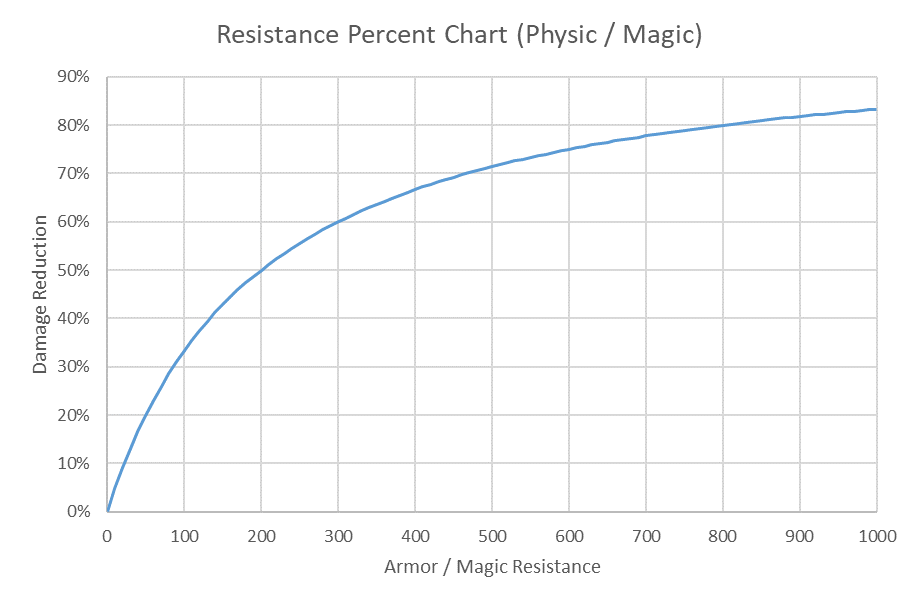
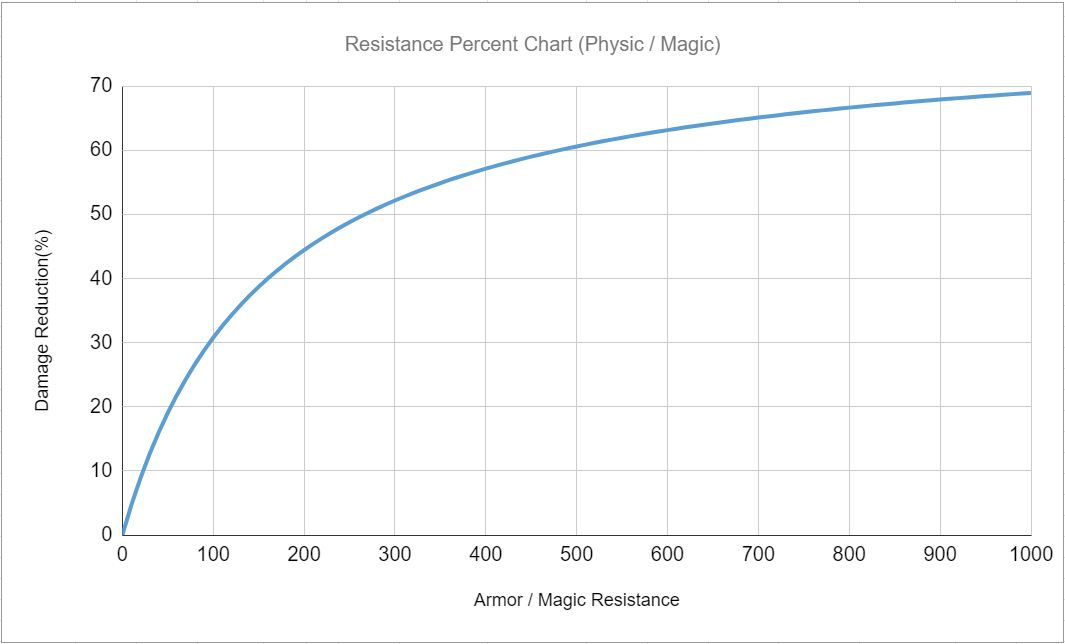
GITBOOK-147: change request with no subject merged in GitBook

diff --git a/guides/buildings.md b/guides/buildings.md
@@ -15,17 +15,7 @@ Resource buildings also have a capacity. You have to collect their resources bef
 
 Level 0 is free for all. Everyone has a free CLEG Mine with 25 CLEG Production Per day. Capacity: 25 CLEG.
 
-| Level | Upgrade Time | Cost        | Production \* | 1 HP Repair\*\* | Capacity \* |
-| ----- | ------------ | ----------- | ------------- | --------------- | ----------- |
-| 0     | 0 hours      | Free        | 25            | 0               | 25          |
-| 1     | 6 hours      | 1,000 CLEG  | 50 CLEG       | 5 CLEG          | 50 CLEG     |
-| 2     | 12 hours     | 1,000 CLEG  | 95 CLEG       | 10 CLEG         | 100 CLEG    |
-| 3     | 24 hours     | 2,000 CLEG  | 181 CLEG      | 20 CLEG         | 200 CLEG    |
-| 4     | 36 hours     | 4,000 CLEG  | 343 CLEG      | 40 CLEG         | 400 CLEG    |
-| 5     | 48 hours     | 8,000 CLEG  | 652 CLEG      | 80 CLEG         | 800 CLEG    |
-| 6     | 60 hours     | 16,000 CLEG | 1,238 CLEG    | 160 CLEG        | 1600 CLEG   |
-| 7     | 72 hours     | 32,000 CLEG | 2,352 CLEG    | 320 CLEG        | 3200 CLEG   |
-| 8     | 84 hours     | 64,000 CLEG | 4,469 CLEG    | 640 CLEG        | 6400 CLEG   |
+<table><thead><tr><th width="90">Level</th><th width="142">Upgrade Time</th><th width="135">Cost</th><th width="129">Production *</th><th width="110">1 HP Repair**</th><th>Capacity *</th></tr></thead><tbody><tr><td>0</td><td>0 hours</td><td>Free</td><td>25</td><td>0</td><td>25</td></tr><tr><td>1</td><td>6 hours</td><td>1,000 CLEG</td><td>50 CLEG</td><td>5 CLEG</td><td>50 CLEG</td></tr><tr><td>2</td><td>12 hours</td><td>1,000 CLEG</td><td>95 CLEG</td><td>10 CLEG</td><td>100 CLEG</td></tr><tr><td>3</td><td>24 hours</td><td>2,000 CLEG</td><td>181 CLEG</td><td>20 CLEG</td><td>200 CLEG</td></tr><tr><td>4</td><td>36 hours</td><td>4,000 CLEG</td><td>343 CLEG</td><td>40 CLEG</td><td>400 CLEG</td></tr><tr><td>5</td><td>48 hours</td><td>8,000 CLEG</td><td>652 CLEG</td><td>80 CLEG</td><td>800 CLEG</td></tr><tr><td>6</td><td>60 hours</td><td>16,000 CLEG</td><td>1,238 CLEG</td><td>160 CLEG</td><td>1600 CLEG</td></tr><tr><td>7</td><td>72 hours</td><td>32,000 CLEG</td><td>2,352 CLEG</td><td>320 CLEG</td><td>3200 CLEG</td></tr><tr><td>8</td><td>84 hours</td><td>64,000 CLEG</td><td>4,469 CLEG</td><td>640 CLEG</td><td>6400 CLEG</td></tr></tbody></table>
 
 {% hint style="warning" %}
 \* Production per day and Capacity numbers are related to cycle 1. In the next cycles, the production will be reduced. Read more about [Mining Cycles](../price-stability.md#mining-cycles).
@@ -39,16 +29,7 @@ Level 0 is free for all. Everyone has a free CLEG Mine with 25 CLEG Production P
 
 ![](../.gitbook/assets/CLEG-stone-mine.webp)
 
-| Level | Upgrade Time | Cost                              | Production \* | Capacity \* |
-| ----- | ------------ | --------------------------------- | ------------- | ----------- |
-| 1     | 12 hours     | 400 CLEG                          | 100 Stone     | 100 Stone   |
-| 2     | 24 hours     | <p>400 CLEG,<br>400 Stone</p>     | 190 Stone     | 200 Stone   |
-| 3     | 36 hours     | <p>800 CLEG,<br>800 Stone</p>     | 361 Stone     | 400 Stone   |
-| 4     | 48 hours     | <p>1600 CLEG,<br>1600 Stone</p>   | 686 Stone     | 800 Stone   |
-| 5     | 60 hours     | <p>3200 CLEG,<br>3200 Stone</p>   | 1303 Stone    | 1600 Stone  |
-| 6     | 72 hours     | <p>6400 CLEG,<br>6400 Stone</p>   | 2476 Stone    | 3200 Stone  |
-| 7     | 84 hours     | <p>12800 CLEG,<br>12800 Stone</p> | 4705 Stone    | 6400 Stone  |
-| 8     | 96 hours     | <p>25600 CLEG,<br>25600 Stone</p> | 8939 Stone    | 12800 Stone |
+<table><thead><tr><th width="88">Level</th><th width="146">Upgrade Time</th><th>Cost</th><th>Production *</th><th>Capacity *</th></tr></thead><tbody><tr><td>1</td><td>12 hours</td><td>400 CLEG</td><td>100 Stone</td><td>100 Stone</td></tr><tr><td>2</td><td>24 hours</td><td>400 CLEG,<br>400 Stone</td><td>190 Stone</td><td>200 Stone</td></tr><tr><td>3</td><td>36 hours</td><td>800 CLEG,<br>800 Stone</td><td>361 Stone</td><td>400 Stone</td></tr><tr><td>4</td><td>48 hours</td><td>1600 CLEG,<br>1600 Stone</td><td>686 Stone</td><td>800 Stone</td></tr><tr><td>5</td><td>60 hours</td><td>3200 CLEG,<br>3200 Stone</td><td>1303 Stone</td><td>1600 Stone</td></tr><tr><td>6</td><td>72 hours</td><td>6400 CLEG,<br>6400 Stone</td><td>2476 Stone</td><td>3200 Stone</td></tr><tr><td>7</td><td>84 hours</td><td>12800 CLEG,<br>12800 Stone</td><td>4705 Stone</td><td>6400 Stone</td></tr><tr><td>8</td><td>96 hours</td><td>25600 CLEG,<br>25600 Stone</td><td>8939 Stone</td><td>12800 Stone</td></tr></tbody></table>
 
 {% hint style="warning" %}
 \* Production per day and Capacity numbers are related to cycle 1. In the next cycles, the production will be reduced. Read more about [Mining Cycles](../price-stability.md#mining-cycles).
@@ -58,16 +39,7 @@ Level 0 is free for all. Everyone has a free CLEG Mine with 25 CLEG Production P
 
 ![](../.gitbook/assets/CLEG-iron-mine.webp)
 
-| Level | Upgrade Time | Cost                                             | Production \* | Capacity \* |
-| ----- | ------------ | ------------------------------------------------ | ------------- | ----------- |
-| 1     | 12 hours     | <p>500 CLEG,</p><p>500 Stone</p>                 | 100 Iron      | 100 Iron    |
-| 2     | 24 hours     | <p>500 CLEG,</p><p>500 Stone,<br>500 Iron</p>    | 190 Iron      | 200 Iron    |
-| 3     | 36 hours     | <p>1000 CLEG,<br>1000 Stone,<br>1000 Iron</p>    | 361 Iron      | 400 Iron    |
-| 4     | 48 hours     | <p>2000 CLEG,<br>2000 Stone,<br>2000 Iron</p>    | 686 Iron      | 800 Iron    |
-| 5     | 60 hours     | <p>4000 CLEG,<br>4000 Stone,<br>4000 Iron</p>    | 1303 Iron     | 1600 Iron   |
-| 6     | 72 hours     | <p>8000 CLEG,<br>8000 Stone,<br>8000 Iron</p>    | 2476 Iron     | 3200 Iron   |
-| 7     | 84 hours     | <p>16000 CLEG,<br>16000 Stone,<br>16000 Iron</p> | 4705 Iron     | 6400 Iron   |
-| 8     | 96 hours     | <p>32000 CLEG,<br>32000 Stone,<br>32000 Iron</p> | 8939 Iron     | 12800 Iron  |
+<table><thead><tr><th width="99">Level</th><th width="150">Upgrade Time</th><th>Cost</th><th>Production *</th><th>Capacity *</th></tr></thead><tbody><tr><td>1</td><td>12 hours</td><td><p>500 CLEG,</p><p>500 Stone</p></td><td>100 Iron</td><td>100 Iron</td></tr><tr><td>2</td><td>24 hours</td><td><p>500 CLEG,</p><p>500 Stone,<br>500 Iron</p></td><td>190 Iron</td><td>200 Iron</td></tr><tr><td>3</td><td>36 hours</td><td>1000 CLEG,<br>1000 Stone,<br>1000 Iron</td><td>361 Iron</td><td>400 Iron</td></tr><tr><td>4</td><td>48 hours</td><td>2000 CLEG,<br>2000 Stone,<br>2000 Iron</td><td>686 Iron</td><td>800 Iron</td></tr><tr><td>5</td><td>60 hours</td><td>4000 CLEG,<br>4000 Stone,<br>4000 Iron</td><td>1303 Iron</td><td>1600 Iron</td></tr><tr><td>6</td><td>72 hours</td><td>8000 CLEG,<br>8000 Stone,<br>8000 Iron</td><td>2476 Iron</td><td>3200 Iron</td></tr><tr><td>7</td><td>84 hours</td><td>16000 CLEG,<br>16000 Stone,<br>16000 Iron</td><td>4705 Iron</td><td>6400 Iron</td></tr><tr><td>8</td><td>96 hours</td><td>32000 CLEG,<br>32000 Stone,<br>32000 Iron</td><td>8939 Iron</td><td>12800 Iron</td></tr></tbody></table>
 
 {% hint style="warning" %}
 \* Production per day and Capacity numbers are related to cycle 1. In the next cycles, the production will be reduced. Read more about [Mining Cycles](../price-stability.md#mining-cycles).
@@ -81,16 +53,7 @@ By upgrading barracks, Capacity will increase by 2 per level. And Armor, Damage,
 
 ![Barracks](../.gitbook/assets/CLEG-Barracks.webp)
 
-| Level | Upgrade Time | Cost                                             | Healing/Day \* | Capacity | Bonus Stats \*\* |
-| ----- | ------------ | ------------------------------------------------ | -------------- | -------- | ---------------- |
-| 1     | 12 hours     | <p>1000 CLEG,<br>1000 Stone,<br>1000 Iron</p>    | 240 HP         | 5 Units  | 0%               |
-| 2     | 24 hours     | <p>1000 CLEG,<br>1000 Stone,<br>1000 Iron</p>    | 480 HP         | 7 Units  | 5%               |
-| 3     | 36 hours     | <p>2000 CLEG,<br>2000 Stone,<br>2000 Iron</p>    | 960 HP         | 9 Units  | 10%              |
-| 4     | 48 hours     | <p>4000 CLEG,<br>4000 Stone,<br>4000 Iron</p>    | 1920 HP        | 11 Units | 20%              |
-| 5     | 60 hours     | <p>8000 CLEG,<br>8000 Stone,<br>8000 Iron</p>    | 3840 HP        | 13 Units | 40%              |
-| 6     | 72 hours     | <p>16000 CLEG,<br>16000 Stone,<br>16000 Iron</p> | 7680 HP        | 15 Units | 80%              |
-| 7     | 84 hours     | <p>32000 CLEG,<br>32000 Stone,<br>32000 Iron</p> | 15360 HP       | 17 Units | 160%             |
-| 8     | 96 hours     | <p>64000 CLEG,<br>64000 Stone,<br>64000 Iron</p> | 30720 HP       | 19 Units | 320%             |
+<table><thead><tr><th width="88">Level</th><th>Upgrade Time</th><th width="142">Cost</th><th width="135">Healing/Day *</th><th>Capacity</th><th>Bonus Stats **</th></tr></thead><tbody><tr><td>1</td><td>12 hours</td><td>1000 CLEG,<br>1000 Stone,<br>1000 Iron</td><td>240 HP</td><td>5 Units</td><td>0%</td></tr><tr><td>2</td><td>24 hours</td><td>1000 CLEG,<br>1000 Stone,<br>1000 Iron</td><td>480 HP</td><td>7 Units</td><td>5%</td></tr><tr><td>3</td><td>36 hours</td><td>2000 CLEG,<br>2000 Stone,<br>2000 Iron</td><td>960 HP</td><td>9 Units</td><td>10%</td></tr><tr><td>4</td><td>48 hours</td><td>4000 CLEG,<br>4000 Stone,<br>4000 Iron</td><td>1920 HP</td><td>11 Units</td><td>20%</td></tr><tr><td>5</td><td>60 hours</td><td>8000 CLEG,<br>8000 Stone,<br>8000 Iron</td><td>3840 HP</td><td>13 Units</td><td>40%</td></tr><tr><td>6</td><td>72 hours</td><td>16000 CLEG,<br>16000 Stone,<br>16000 Iron</td><td>7680 HP</td><td>15 Units</td><td>80%</td></tr><tr><td>7</td><td>84 hours</td><td>32000 CLEG,<br>32000 Stone,<br>32000 Iron</td><td>15360 HP</td><td>17 Units</td><td>160%</td></tr><tr><td>8</td><td>96 hours</td><td>64000 CLEG,<br>64000 Stone,<br>64000 Iron</td><td>30720 HP</td><td>19 Units</td><td>320%</td></tr></tbody></table>
 
 {% hint style="info" %}
 \* Healing/Day: When units are injured in battles, their HP will recover in Barracks equal to Healing/Day divided by injured soldiers per day. For Example, If Barrack's Healing/Day is 240 and there are 10 injured units, each unit will receive 24 HP per day.

diff --git a/guides/heroes.md b/guides/heroes.md
@@ -43,16 +43,7 @@ In [Barracks](buildings.md#barracks), you can train units. Some of the units are
 
 ### Base Stats
 
-| Name     | Damage                                                         | Defence                                                                      | Resources                         |
-| -------- | -------------------------------------------------------------- | ---------------------------------------------------------------------------- | --------------------------------- |
-| Warrior  | <p>50 Physical Damage<br>Attack Range: 1</p>                   | <p>Armor: 100<br>HP: 200<br>Magic Resistance: 20</p>                         | CLEG: 100, Iron: 30               |
-| Archer   | <p>40 Physical Damage<br>Attack Range: 2</p>                   | <p>Armor: 30<br>HP: 120<br>Magic Resistance: 20</p>                          | CLEG: 100, Iron: 20               |
-| Guardian | <p>40 Physical Damage<br>Attack Range: 1</p>                   | <p>Armor: 200<br>HP:300<br>Magic Resistance: 20<br>+30 team armor</p>        | CLEG: 150, Iron: 100              |
-| Knight   | <p>100 Physical Damage<br>Attack Range: 1</p>                  | <p>Armor: 150<br>HP: 400<br>Magic Resistance: 20</p>                         | CLEG: 300, Iron: 100              |
-| Mage     | <p>50 Magical Damage<br>Attack Range: 3,<br>17 Healing*** </p> | <p>Armor: 20<br>HP: 100<br>Magic Resistance: 20<br>+30 team Magic Resist</p> | CLEG: 160, Iron 25                |
-| Catapult | <p>150 AOE** Physical Damage<br>Range: 4</p>                   | <p>Armor: 300<br>HP: 500<br>Magic Resistance: 20</p>                         | CLEG: 1000, Iron: 400, Stone: 500 |
-| Dragon   | <p>100 AOE Magical Damage<br>Range: 2</p>                      | <p>Armor: 200<br>HP: 500<br>Magic Resistance: 20</p>                         | 1% Drops in dungeons              |
-| Goblin   | <p>20 Physical Damage<br>Range: 1</p>                          | <p>Armor: 50<br>HP: 200<br>Magic Resistance: 20</p>                          | 10% Drops in dungeons             |
+<table><thead><tr><th width="119.34587254356853">Name</th><th width="196.45229776221768">Damage</th><th width="231.0297488249819">Defence</th><th>Resources</th></tr></thead><tbody><tr><td>Warrior</td><td>50 Physical Damage<br>Attack Range: 1</td><td>Armor: 100<br>HP: 200<br>Magic Resistance: 20</td><td>CLEG: 100, Iron: 30</td></tr><tr><td>Archer</td><td>40 Physical Damage<br>Attack Range: 2</td><td>Armor: 30<br>HP: 120<br>Magic Resistance: 20</td><td>CLEG: 100, Iron: 20</td></tr><tr><td>Guardian</td><td>40 Physical Damage<br>Attack Range: 1</td><td>Armor: 200<br>HP:300<br>Magic Resistance: 20<br>+30 team armor</td><td>CLEG: 150, Iron: 100</td></tr><tr><td>Knight</td><td>100 Physical Damage<br>Attack Range: 1</td><td>Armor: 150<br>HP: 400<br>Magic Resistance: 20</td><td>CLEG: 300, Iron: 100</td></tr><tr><td>Mage</td><td>50 Magical Damage<br>Attack Range: 3,<br>17 Healing*** </td><td>Armor: 20<br>HP: 100<br>Magic Resistance: 20<br>+30 team Magic Resist</td><td>CLEG: 160, Iron 25</td></tr><tr><td>Catapult</td><td>150 AOE** Physical Damage<br>Range: 4</td><td>Armor: 300<br>HP: 500<br>Magic Resistance: 20</td><td>CLEG: 1000, Iron: 400, Stone: 500</td></tr><tr><td>Dragon</td><td>100 AOE Magical Damage<br>Range: 2</td><td>Armor: 200<br>HP: 500<br>Magic Resistance: 20</td><td>1% Drops in dungeons</td></tr><tr><td>Goblin</td><td>20 Physical Damage<br>Range: 1</td><td>Armor: 50<br>HP: 200<br>Magic Resistance: 20</td><td>10% Drops in dungeons</td></tr></tbody></table>
 
 \*\* AOE (Area of effect): Deals damage to units within 1 range distance of the target unit.
 
@@ -62,18 +53,7 @@ In [Barracks](buildings.md#barracks), you can train units. Some of the units are
 
 Units earn experience (XP) in battles. When they get enough XP, they will upgrade to the next Level. by upgrading to new levels, units' HP, Attack Damage, and Healing will increase by 50%. For ranged units, they will get 1 more attack range every 3 levels. For example, the table below shows the stats of Archer at each Level.
 
-| Level | XP required | Attack | HP      | Attack Range |
-| ----- | ----------- | ------ | ------- | ------------ |
-| 1     | -           | 30     | 120 HP  | 2            |
-| 2     | 100         | 45     | 180 HP  | 2            |
-| 3     | 150         | 68     | 270 HP  | 2            |
-| 4     | 225         | 101    | 405 HP  | 3            |
-| 5     | 338         | 152    | 608 HP  | 3            |
-| 6     | 506         | 228    | 911 HP  | 3            |
-| 7     | 759         | 342    | 1367 HP | 4            |
-| 8     | 1139        | 513    | 2050 HP | 4            |
-| 9     | 1709        | 769    | 3075 HP | 4            |
-| 10    | 2563        | 1153   | 4613 HP | 5            |
+<table><thead><tr><th width="110">Level</th><th width="127">XP required</th><th width="121">Attack</th><th width="135">HP</th><th width="137">Attack Range</th></tr></thead><tbody><tr><td>1</td><td>-  </td><td>30</td><td>120 HP</td><td>2</td></tr><tr><td>2</td><td>100</td><td>45</td><td>180 HP</td><td>2</td></tr><tr><td>3</td><td>150</td><td>68</td><td>270 HP</td><td>2</td></tr><tr><td>4</td><td>225</td><td>101</td><td>405 HP</td><td>3</td></tr><tr><td>5</td><td>338</td><td>152</td><td>608 HP</td><td>3</td></tr><tr><td>6</td><td>506</td><td>228</td><td>911 HP</td><td>3</td></tr><tr><td>7</td><td>759</td><td>342</td><td>1367 HP</td><td>4</td></tr><tr><td>8</td><td>1139</td><td>513</td><td>2050 HP</td><td>4</td></tr><tr><td>9</td><td>1709</td><td>769</td><td>3075 HP</td><td>4</td></tr><tr><td>10</td><td>2563</td><td>1153</td><td>4613 HP</td><td>5</td></tr></tbody></table>
 
 Each troop earns 10 XP if they win the battle, but if they lose the battle, troops will earn 5 XP. Required XP for level up to level 2 is 100 and for next levels is previous level required XP + 50%. For example: Troop level 1 requires 100 XP to level up, and troop level 2 needs 150 XP to reach to the next level.
 

diff --git a/tokenomics.md b/tokenomics.md
@@ -8,16 +8,7 @@ IDO Price: 0.008$
 
 ![](.gitbook/assets/tokenomics.png)
 
-|                                               | Total Supply | Percent | Vesting   |
-| --------------------------------------------- | :----------: | :-----: | --------- |
-| **Play to Earn \***                           |     600M     |   60%   | 40 Months |
-| **IDO**                                       |     100M     |   10%   |           |
-| **Team**                                      |      80M     |    8%   | 36 Months |
-| **CEX Listing**                               |      50M     |    5%   |           |
-| **Marketing**                                 |      50M     |    5%   | 36 Months |
-| **DEX Liquidity**                             |      50M     |    5%   |           |
-| **Community** (Airdrops / Rewards / Referral) |      40M     |    4%   | 24 Month  |
-| **Development**                               |      30M     |    3%   | 18 Months |
+<table><thead><tr><th width="232.52851390579642"> </th><th width="152.43835616438355" align="center">Total Supply</th><th width="150" align="center">Percent</th><th>Vesting</th></tr></thead><tbody><tr><td><strong>Play to Earn *</strong> </td><td align="center">600M</td><td align="center">60%</td><td>40 Months</td></tr><tr><td><strong>IDO</strong></td><td align="center">100M</td><td align="center">10%</td><td></td></tr><tr><td><strong>Team</strong></td><td align="center">80M</td><td align="center">8%</td><td>36 Months</td></tr><tr><td><strong>CEX Listing</strong></td><td align="center">50M</td><td align="center">5%</td><td></td></tr><tr><td><strong>Marketing</strong></td><td align="center">50M</td><td align="center">5%</td><td>36 Months</td></tr><tr><td><strong>DEX Liquidity</strong></td><td align="center">50M</td><td align="center">5%</td><td></td></tr><tr><td><strong>Community</strong> (Airdrops / Rewards / Referral)</td><td align="center">40M</td><td align="center">4%</td><td>24 Month</td></tr><tr><td><strong>Development</strong></td><td align="center">30M</td><td align="center">3%</td><td>18 Months</td></tr></tbody></table>
 
 Vesting tokens locked [unicrypt.network](https://app.unicrypt.network/amm/pancake-v2/token/0x4027d91eCD3140e53AE743d657549adfeEbB27AB) platform and vesting over time based on the vesting plan. You can see more details in the [Chain of Legends Token Vesting Google Sheet](https://docs.google.com/spreadsheets/d/1Z-Gc0C3G\_frqcQPOv7BdwGo-QaTbgm2UpO9uVBXfHR8/edit?usp=sharing).\
 \

diff --git a/guides/battles.md b/guides/battles.md
@@ -13,7 +13,7 @@ Priorities:
 * Lowest HP
 * Highest Damage
 
-<figure><img src="../.gitbook/assets/image (7).png" alt=""><figcaption></figcaption></figure>
+<figure><img src="../.gitbook/assets/image (7) (2).png" alt=""><figcaption></figcaption></figure>
 
 Units lose HP in battles and it takes time (depending on the level of [Barracks](broken-reference)) to recover their HP.
 
@@ -21,16 +21,16 @@ Units lose HP in battles and it takes time (depending on the level of [Barracks]
 
 Armor and Magic Resistance help units to get damaged less in battles.
 
-<figure><img src="../.gitbook/assets/image (5).png" alt=""><figcaption><p>How armor and magic resistance mitigate incoming magical or physical damage</p></figcaption></figure>
+<figure><img src="../.gitbook/assets/image (3).png" alt=""><figcaption><p>How armor and magic resistance mitigate incoming magical or physical damage</p></figcaption></figure>
 
 Here is how Armor affects Physical Damage:
 
-Physical Resistance = 100 / ( 200 / Armor + 1))
+Physical Resistance = 100 / ( 200 / Armor + 1.25))
 
 Example: A unit with 50 Armor will get 20**%** less physical Damage:
 
-Physical Resistance = 100 / ( 200 / 50 + 1)) =  **20%**
+Physical Resistance = 100 / ( 200 / 50 + 1.25)) =  **20%**
 
 Magic Resistance has the same formula:
 
-Magic Resistance = 100 / ( 200 / Magic Resistance + 1)
+Magic Resistance = 100 / ( 200 / Magic Resistance + 1.25)

diff --git a/guides/nft-genesis-boxes.md b/guides/nft-genesis-boxes.md
@@ -20,12 +20,7 @@ Read more about [Mining Cycles](../price-stability.md#mining-cycles)
 
 
 
-| Box Name | Lands qty | Land Drop Chance                                    |
-| -------- | --------- | --------------------------------------------------- |
-| Cobalt   | 45        | Common: 94%, Uncommon: 5%, Rare: 1%                 |
-| Pyrite   | 40        | Common: 46%, Uncommon:50%, Rare: 4%                 |
-| Copper   | 30        | Common: 37%, Uncommon:45%, Rare: 15%, Legendary: 3% |
-| Gold Box | 30        | Common: 0%, Uncommon:36%, Rare: 44%, Legendary: 20% |
+<table><thead><tr><th width="153.1253615698304">Box Name</th><th width="150">Lands qty</th><th width="444.3677549388293">Land Drop Chance</th></tr></thead><tbody><tr><td>Cobalt</td><td>45</td><td>Common: 94%, Uncommon: 5%, Rare: 1%</td></tr><tr><td>Pyrite</td><td>40</td><td>Common: 46%, Uncommon:50%, Rare: 4%</td></tr><tr><td>Copper</td><td>30</td><td>Common: 37%, Uncommon:45%, Rare: 15%, Legendary: 3%</td></tr><tr><td>Gold Box</td><td>30</td><td>Common: 0%, Uncommon:36%, Rare: 44%, Legendary: 20%</td></tr></tbody></table>
 
 {% hint style="warning" %}
 You may not receive number of each type of lands exactly equal to its drop chance, you may receive of one type more than it's drop chance, and fewer from another type.

diff --git a/price-stability.md b/price-stability.md
@@ -18,7 +18,7 @@ To prevent this issue and control token supply in the market, we generate limite
 
 At the beginning of the game, 2000 lands (Common, Uncommon, Rare, and Legendary) will be available for buying every day. These lands have 1,300,000 tokens in total to mine. After each cycle, tokens of new lands will be reduced by 5%. Token mining will also reduce by 5% after each cycle too. The duration of the first cycle is at least 10 days up to all the lands sold out, the second cycle is 11 days, and every cycle is one day longer than the previous one. Cycle duration may become longer if all of the lands don't get sold out.
 
-![](<.gitbook/assets/image (5) (2).png>)
+![](<.gitbook/assets/image (5) (2) (1).png>)
 
 ### Conclusion
 

diff --git a/guides/marketplace.md b/guides/marketplace.md
@@ -8,7 +8,7 @@ The Marketplace has 4 Main sections: Lands, Units (Troops), Resources, and Items
 
 You can buy NFTs from available offers or you can place a bid with your desirable price.
 
-<figure><img src="../.gitbook/assets/image (1).png" alt=""><figcaption></figcaption></figure>
+<figure><img src="../.gitbook/assets/image (1) (3).png" alt=""><figcaption></figcaption></figure>
 
 By clicking on each item in the Marketplace, you will see its order book containing a list of sell and buy offers for that item. you can sell your item to available buy offers, or buy items from available sell offers or place your own offer.
 

diff --git a/README.md b/README.md
@@ -5,7 +5,7 @@ coverY: -178.89332572732457
 
 # 📃 Introduction
 
-<figure><img src=".gitbook/assets/image (3).png" alt=""><figcaption></figcaption></figure>
+<figure><img src=".gitbook/assets/image (3) (3).png" alt=""><figcaption></figcaption></figure>
 
 Chain of Legends is a play to earn NFT game that you can:
 
